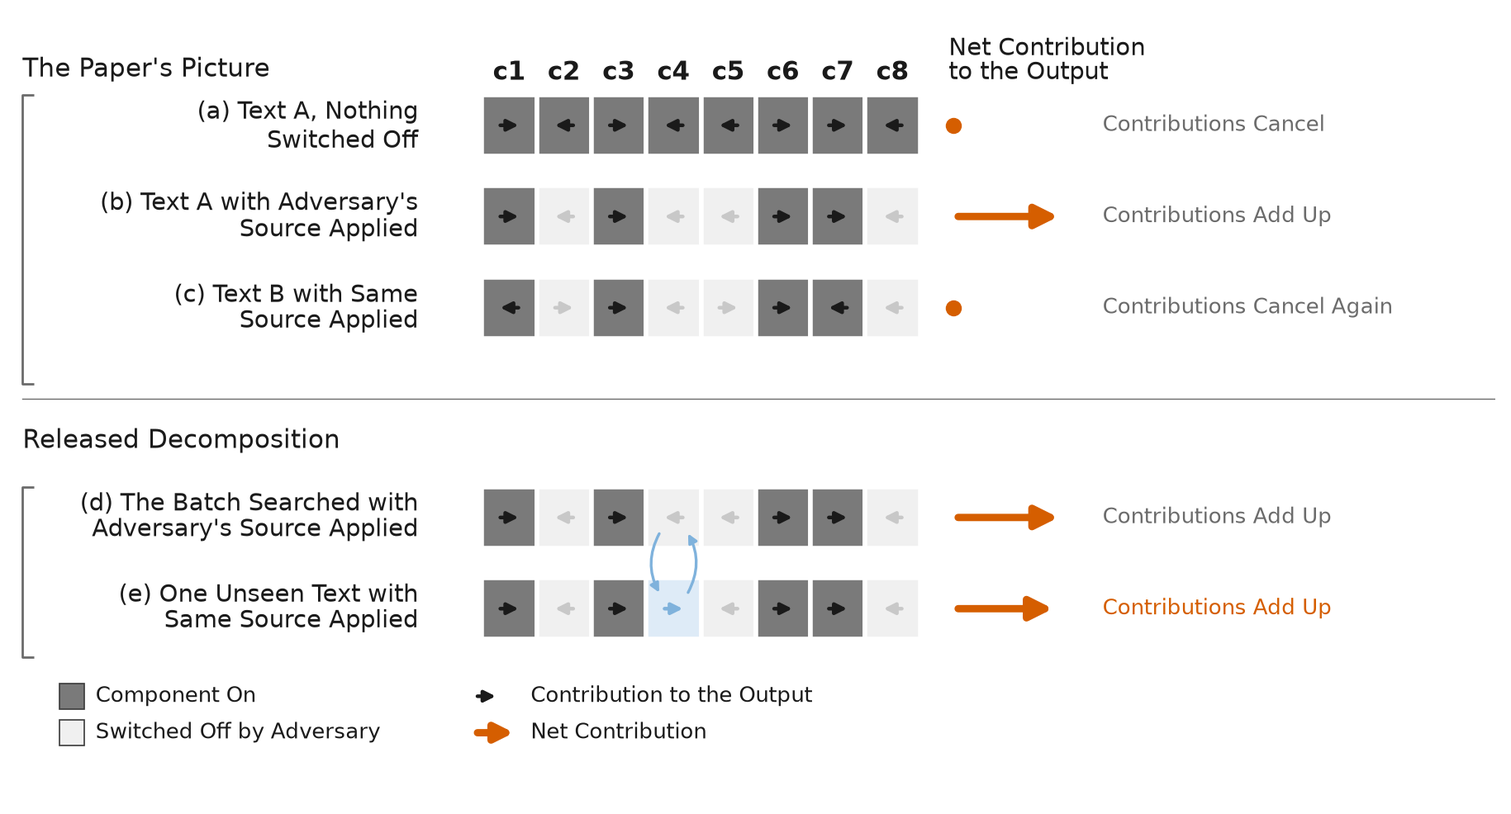
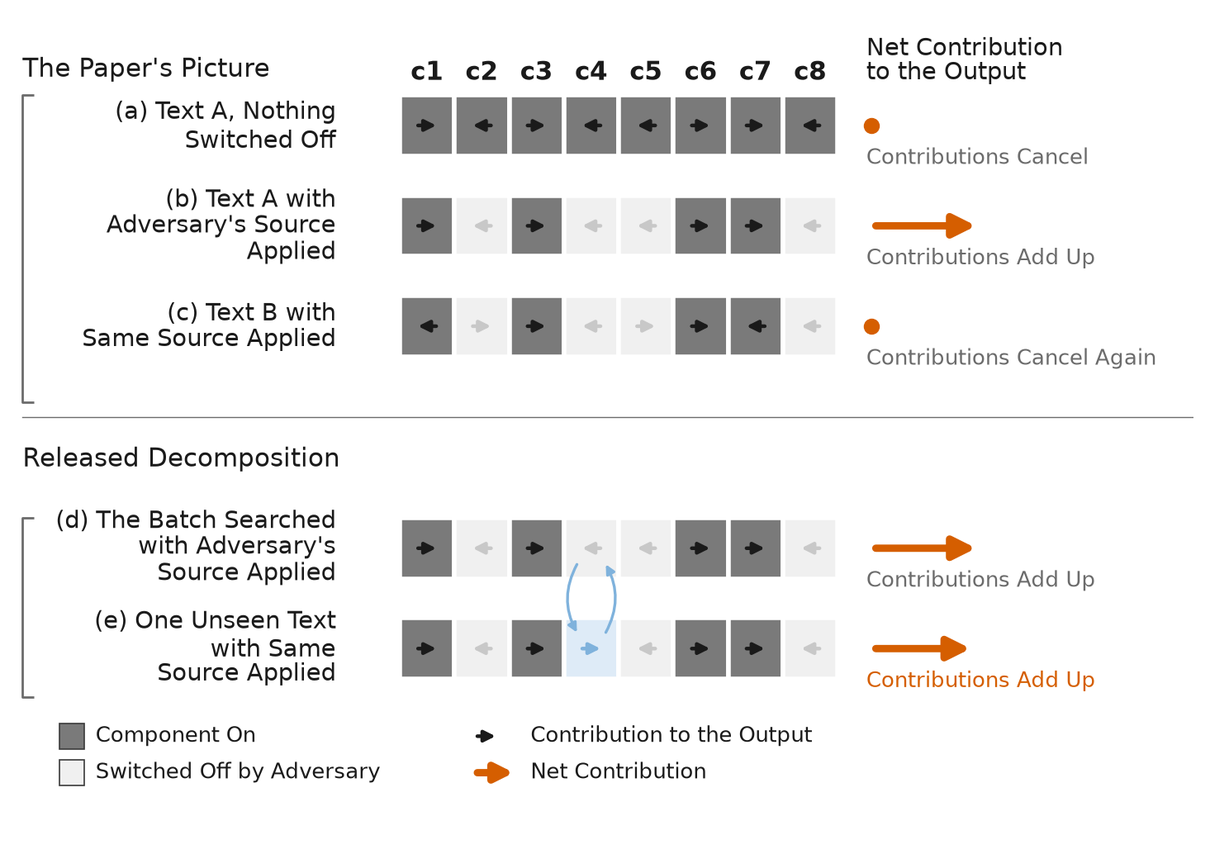
The post's address, the report brought up to the posted text, and figure three narrowed; vpd-audit-2 at 821c981

diff --git a/vpd_audit_2/post_interference.py b/vpd_audit_2/post_interference.py
@@ -1,4 +1,4 @@
-"""Plans 4 and 7 of the research log: the post's Figure 3, the paper's interference picture as a toy, and two facts
+"""Plans 4, 7, and 9 of the research log: the post's Figure 3, the paper's interference picture as a toy, and two facts
 measured on the released decomposition, drawn in the toy's terms.
 
     uv run python -m vpd_audit_2.post_interference
@@ -29,6 +29,10 @@ One PNG goes to `results/post/`, `figure3_interference.png`, with a copy at 50 p
 The style is Figure 2's: its helpers and constants are imported from `post_schematic.py`, and `VERMILLION` from
 `post_figure.py` (neither is changed). The figure is laid out at Figure 2's scale, so a data unit is the same size in the
 saved image.
+
+The layout is narrow, since LessWrong scales every image to its column width: each row's reading ("Contributions Add
+Up") sits under its net arrow, in the net column, rather than in a column of its own at the right; the longer row titles
+wrap onto three lines; and the rows sit 1.65 units apart, where they sat 1.5 apart while the readings had their column.
 """
 
 from __future__ import annotations
@@ -93,12 +97,12 @@ def kept_share(record_path: Path = LEAD_RECORD) -> dict:
 # ----------------------------------------------------------------------------- the words
 
 SECTIONS = ("The Paper's Picture", "Released Decomposition")
-TITLES = {"a": "(a) Text A, Nothing\nSwitched Off", "b": "(b) Text A with Adversary's\nSource Applied",
-          "c": "(c) Text B with Same\nSource Applied",
-          "d": "(d) The Batch Searched with\nAdversary's Source Applied", "e": "(e) One Unseen Text with\nSame Source Applied"}
+TITLES = {"a": "(a) Text A, Nothing\nSwitched Off", "b": "(b) Text A with\nAdversary's Source\nApplied",
+          "c": "(c) Text B with\nSame Source Applied",
+          "d": "(d) The Batch Searched\nwith Adversary's\nSource Applied", "e": "(e) One Unseen Text\nwith Same\nSource Applied"}
 READINGS = {"a": "Contributions Cancel", "b": "Contributions Add Up", "c": "Contributions Cancel Again"}
 NET_HEADER = "Net Contribution\nto the Output"
-# Beside rows (d) and (e), as beside rows (a) to (c); the unseen text's in vermilion.
+# Under the net arrows of rows (d) and (e), as of rows (a) to (c); the unseen text's in vermilion.
 MEASURED_READINGS = {"d": "Contributions Add Up", "e": "Contributions Add Up"}
 MEASURED_READING_COLOURS = {"d": MUTED, "e": VERMILLION}
 LEGEND_A = [("on", "Component On"), ("off", "Switched Off by Adversary")]
@@ -109,21 +113,23 @@ LEGEND_B = [("push", "Contribution to the Output"), ("net", "Net Contribution")]
 CW3 = 0.9  # cell width (Figure 2's is 1.7: eight cells and the net column must fit the post's column)
 RH = 1.0  # cell height, as Figure 2's
 PUSH = 0.45  # a component's arrow, in data units; the net arrow is the net push times this
+PITCH = 1.65  # the rows' pitch: room for the three-line titles and for the readings under the net arrows
 NET_X0 = 8 * CW3 + 0.35  # the net column
-NET_W = 2.3
+NET_W = 5.3  # the net column also holds the readings, so it is wide; nothing sits to its right
 NET_ORIGIN = NET_X0 + 0.2  # every net arrow starts here; a zero net push is a dot here
 NET_HEADER_INSET = 0.08  # the net column's header starts this far left of NET_ORIGIN, over the dots and arrow tails
-READ_X = NET_X0 + NET_W + 0.35  # the readings, left-aligned
-READ_W = 6.45  # the readings' column, which sets the figure's right edge
+READ_X = NET_ORIGIN - NET_HEADER_INSET  # the readings, left-aligned with the net column's header
+READING_DROP = 0.36  # each reading's top sits this far below its row's middle, under the net arrow
 TITLE_X = -1.05  # the row titles, right-aligned
-BRACKET_X = -7.55  # the section brackets at the far left
-ROW_TOP = {"a": 0.0, "b": -1.5, "c": -3.0, "d": -6.45, "e": -7.95}  # each row's top edge
-RULE_Y = -5.0  # the hairline between the paper's picture and the released decomposition, a full row below row (c)
+BRACKET_X = -6.2  # the section brackets at the far left (the three-line titles are narrower than two-line ones)
+# each row's top edge: one pitch apart, with two more units between (c) and (d) for the hairline and the section label
+ROW_TOP = {"a": 0.0, "b": -PITCH, "c": -2 * PITCH, "d": -2 * PITCH - 2.0 - PITCH, "e": -2 * PITCH - 2.0 - 2 * PITCH}
+RULE_Y = ROW_TOP["c"] - 1.0 - 1.0  # the hairline between the two sections, a full row below row (c)
 SECTION_LABEL_Y = {SECTIONS[0]: 0.2, SECTIONS[1]: RULE_Y - 0.48}  # "Released Decomposition" below the rule, not touching it
 D_BOTTOM = ROW_TOP["e"] - 1.3  # the bottom of the lower section's bracket
 FLIP_INSET = 0.25  # the curved arrows run this far inside c4's column, one at each side
 FLIP_GAP = 0.2  # and start and end this far from the two rows' middles
-XLIM = (BRACKET_X - 0.1, READ_X + READ_W)
+XLIM = (BRACKET_X - 0.1, NET_X0 + NET_W + 0.2)
 LEGEND_Y = D_BOTTOM - 0.85  # the first legend row's swatch bottom
 LEGEND_X = (BRACKET_X + 0.6, BRACKET_X + 7.4)
 BOTTOM_TOP = LEGEND_Y - 0.3  # just under the legend's first row, the top of the margin at the figure's foot (no footer)
@@ -185,7 +191,7 @@ def _draw_rows(ax):
         for j in range(8):
             _cell(ax, j * CW3, y, bool(sw[j]), push=PUSHES[inp][j])
         _net(ax, y, row_net_push(row))
-        ax.text(READ_X, y + RH / 2, READINGS[row], ha="left", va="center", fontsize=9.5, color=MUTED)
+        ax.text(READ_X, y + RH / 2 - READING_DROP, READINGS[row], ha="left", va="top", fontsize=9.5, color=MUTED)
         ax.text(TITLE_X, y + RH / 2, TITLES[row], ha="right", va="center", fontsize=10.5, color=INK, linespacing=1.1)
     # the schematic rows: (d) the searched batch, row (b)'s arrows; (e) one unseen text, the same with c4 flipped and
     # tinted; each with a net arrow (row (b)'s net push, times the kept share on the unseen text) and a reading
@@ -198,7 +204,8 @@ def _draw_rows(ax):
             else:
                 _cell(ax, j * CW3, y, bool(SWITCHES[j]), push=sign)
         _net(ax, y, row_net_push("b") * share[row])
-        ax.text(READ_X, y + RH / 2, MEASURED_READINGS[row], ha="left", va="center", fontsize=9.5, color=MEASURED_READING_COLOURS[row])
+        ax.text(READ_X, y + RH / 2 - READING_DROP, MEASURED_READINGS[row], ha="left", va="top", fontsize=9.5,
+                color=MEASURED_READING_COLOURS[row])
         ax.text(TITLE_X, y + RH / 2 + 0.02, TITLES[row], ha="right", va="center", fontsize=10.5, color=INK, linespacing=1.1)
     # a pair of curved arrows between row (d)'s c4 and row (e)'s, inside the column: down at the left, up at the right
     xl, xr = FLIP * CW3 + FLIP_INSET, (FLIP + 1) * CW3 - FLIP_INSET
@@ -208,7 +215,7 @@ def _draw_rows(ax):
     # the section brackets and the hairline between them
     _bracket(ax, BRACKET_X, ROW_TOP["a"], RULE_Y + 0.25, MUTED, 1.0)
     _bracket(ax, BRACKET_X, ROW_TOP["d"], D_BOTTOM, MUTED, 1.0)
-    ax.plot([BRACKET_X, READ_X + READ_W], [RULE_Y, RULE_Y], color=MUTED, linewidth=0.5)
+    ax.plot([BRACKET_X, XLIM[1]], [RULE_Y, RULE_Y], color=MUTED, linewidth=0.5)
     ax.text(BRACKET_X, SECTION_LABEL_Y[SECTIONS[0]], SECTIONS[0], ha="left", va="bottom", fontsize=HEAD, color=INK)
     ax.text(BRACKET_X, SECTION_LABEL_Y[SECTIONS[1]], SECTIONS[1], ha="left", va="top", fontsize=HEAD, color=INK)
 

diff --git a/tests/test_post_interference.py b/tests/test_post_interference.py
@@ -98,7 +98,9 @@ def test_the_net_arrows_take_the_kept_share_and_the_readings_and_section_label_a
         for p in patches:  # the net arrow starts at NET_ORIGIN
             if isinstance(p, FancyArrowPatch) and p._posA_posB[0] == (P.NET_ORIGIN, y0 + P.RH / 2):
                 nets[row] = (p._posA_posB[1][0] - P.NET_ORIGIN) / P.PUSH
-        readings[row] = [(t.get_text(), t.get_color()) for t in texts if t.get_position() == (P.READ_X, y0 + P.RH / 2)]
+        # each reading hangs under its net arrow, left-aligned with the net column's header
+        under = (P.READ_X, y0 + P.RH / 2 - P.READING_DROP)
+        readings[row] = [(t.get_text(), t.get_color()) for t in texts if t.get_position() == under]
     words = [t.get_text() for t in texts]
     assert nets == pytest.approx({"b": 4.0, "d": 4.0, "e": 4 * 0.95}, abs=1e-9)  # (a) and (c) are dots: net push 0
     assert readings["d"] == [("Contributions Add Up", P.MUTED)] and readings["e"] == [("Contributions Add Up", P.VERMILLION)]

diff --git a/REPORT.md b/REPORT.md
@@ -255,7 +255,7 @@ A dose-response, added after the readings at the author's request (`results/s6_f
 | Harm, nats (`dose_rounded.txt` line 29) | 1.52 | 14.03 | 33.52 |
 | Fraction of the whole pattern's added harm (`dose_rounded.txt` line 21) | 0.04 | 0.42 | 1.02 |
 
-The harm arrives almost entirely with the last quarter of the pattern.
+The harm arrives almost entirely with the last quarter of the pattern. The share of the added harm depends on the length of the search: with 0.75 of the off set switched off it is 0.660 at 20 steps, 0.298 at 40, 0.046 at 80, 0.041 at 160, and 0.040 at 320 (`dose_rounded.txt`, lines 17 to 21), so the concentration in the last quarter is a property of the longer searches.
 
 ### 4.4 Many Patterns, Not One
 
@@ -335,7 +335,7 @@ Two more facts bound the claim:
 The probe therefore tests the premise of the toy picture, not the mechanism of the harm.
 
 **Figure 3's rows (d) and (e)** are schematic. They do not show individual measured components, and stand for two measured facts:
-- **Signs.** In row (e) one of the eight switched-off cells flips sign, against the size-weighted 0.743 that keep their sign.
+- **Signs.** In row (e) one of the four switched-off cells flips sign, against the size-weighted 0.743 that keep their sign.
 - **Net arrows.** Row (e)'s net arrow is 0.95 of row (d)'s: the pooled retention at 320 steps, 0.9468 [0.9353, 0.9583] (`results/s5_lead/analysis/lead_tables.txt` line 792). Retention is a ratio of added KL divergence, not of logit-shift length.
 
 ### 5.4 Why Training Left These Defects
@@ -346,6 +346,8 @@ To test whether too little signal per step explains the miss, we ran the authors
 - arm 1: one per text slot and position, as released, $64 \times 512$ per component;
 - arm 2: one per text;
 - arm 3: one for the batch, as the evaluation adversary uses.
+
+Each arm masked all 24 weight matrices at every step, as the released configuration specifies: its random-subset routing of the matrices is set for the stochastic reconstruction loss only, and none is set for the persistent adversary's loss (`provenance/runs/s-55ea3f9b/final_config.yaml`), although the paper's training-recipe appendix says both reconstruction losses use it [1].
 
 Our step matched the authors' training code bit for bit, with 0 mismatches in 1,272,135,829 gradient entries (`results/s7_three_arm/reading.txt` line 6). At the start, 0.456 of arm 1's gradient entries sat below Adam's epsilon, so those values barely moved (`results/s7_three_arm/gate.json` line 40).
 
@@ -543,7 +545,7 @@ Every row carries one of the standings Section 1 defines. For descriptive rows, 
 | batches of 128 texts of 512 tokens; sixteen searched and sixteen unseen; five searches per batch; 80 searches; sources at 20, 40, 80, 160, 320 steps; eight shuffled copies | as stated | design | `freeze/part1.md`, Sections 3 and 6 |
 | a random source causes 0.22 nats | 0.22 | descriptive | `results/s5_lead/analysis/lead_tables.txt`, line 30 |
 | the paper's 20-step search on our unseen batches: 0.75 nats (the dashed line) | 0.75 held-out side; 0.71 attack side | descriptive, named in advance as the yardstick of the registered "large" verdicts (`freeze/part1.md`, Section 4) | `lead_tables.txt`, lines 30 to 31, 57 |
-| seen and unseen damage within 30 percent at every step count (figure one's caption) | held-out over attack, raw: 0.60/0.71, 1.77/2.12, 16.78/18.17, 28.77/30.60, 32.79/34.62, that is 0.85, 0.83, 0.92, 0.94, 0.95 | descriptive | `lead_tables.txt`, lines 30 to 31, 57 to 58, 87 to 88, 117 to 118, 151 to 152 |
+| seen and unseen damage within 20% at every step count (figure one's caption) | held-out over attack, raw: 0.60/0.71, 1.77/2.12, 16.78/18.17, 28.77/30.60, 32.79/34.62, that is 0.85, 0.83, 0.92, 0.94, 0.95 | descriptive | `lead_tables.txt`, lines 30 to 31, 57 to 58, 87 to 88, 117 to 118, 151 to 152 |
 | the dots hug the diagonal: most of the divergence carries over | carry-over ratio 0.72 [0.56, 0.87], 0.77 [0.45, 1.09], 1.02 [0.73, 1.32], 0.90 [0.80, 0.99], 0.94 [0.88, 1.01], all "carries over" | registered verdict, five of 23 | `lead_tables.txt`, lines 33, 60, 90, 120, 154 |
 | from twenty steps on, the defects systematically transfer (TL;DR) | at 20 steps the registered verdicts are "carries over", 0.72 [0.56, 0.87], and "depends on the choice", 0.65 [0.48, 0.82]; "large" is not asked at 20 steps, so the fixed sentence naming a systematic defect exists from 40 steps on | registered verdict, two of 23 at 20 steps; the sentence from 40 steps | `lead_tables.txt`, lines 32 to 34; `freeze/part1.md`, Section 4 |
 | share kept 78% at 20 steps (95 percent interval 0.68 to 0.88), 82% at 40, 92% at 80, about 95% at 160 and 320 | pooled retention 0.78 [0.68, 0.88], 0.82 [0.74, 0.89], 0.92 [0.90, 0.94], 0.94 [0.92, 0.96], 0.95 [0.94, 0.96] | descriptive, named in advance (`freeze/part1.md`, Section 8); the interval changes no verdict | `lead_tables.txt`, lines 43, 73, 103, 133, 167 |
@@ -555,7 +557,9 @@ Every row carries one of the standings Section 1 defines. For descriptive rows, 
 | by the paper's own definition, systematic defects | the fixed sentence for "large" with "depends on the choice" | registered verdict | `freeze/part1.md`, Section 4; `lead_tables.txt`, lines 67 to 68 |
 | the shuffled copies cause 0.30 to 0.32 nats at every step count | 0.32, 0.31, 0.31, 0.30, 0.30 | descriptive, beside the registered shuffled ratio: 0.65 [0.48, 0.82], 0.76 [0.42, 1.09], 1.02 [0.73, 1.32], 0.90 [0.80, 0.99], 0.94 [0.88, 1.01], all "depends on the choice", five of 23 | `lead_tables.txt`, lines 30, 57, 87, 117, 151; the ratios at lines 34, 61, 91, 121, 155 |
 | which components, not how many | composition share 0.74, 0.94, 0.99, 1.00, 1.00 | descriptive | `lead_tables.txt`, lines 38, 65, 95, 125, 159 |
-| a search finds these patterns easily from any starting point | retention at 80 steps, start by start: 0.9215, 0.9222, 0.9213, 0.8925, 0.9377; searches past 5 nats by 160 steps, 0.94 and 0.96 | descriptive | `lead_tables.txt`, lines 733, 138 |
+| a search finds these patterns from any starting point (a sentence the post no longer carries; kept for the record) | retention at 80 steps, start by start: 0.9215, 0.9222, 0.9213, 0.8925, 0.9377; searches past 5 nats by 160 steps, 0.94 and 0.96 | descriptive | `lead_tables.txt`, lines 733, 138 |
+| sources found from different random starts on different batches agree on which components to turn down only slightly more often than chance (an agreement beyond chance of 0.05) | at 320 steps, 29,648 pairs: agreement 0.555 against an independence chance level of 0.531, $\kappa = 0.052$; at 20 and 40 steps $\kappa$ is 0.083 and 0.067 | descriptive, named in advance (the conventions file's Section 7, `results/s6_followups/CONVENTIONS.md`, line 51; Section 4.4) | `results/s6_followups/agreement.txt`, lines 17, 140, and 164 |
+| turning down a random three quarters of the components in a pattern causes only 4% of its damage, and nearly all of the damage arrives with the last quarter | kept share with 0.75 of the off set switched off: 0.040 at 320 steps; 0.660, 0.298, 0.046, and 0.041 at 20, 40, 80, and 160; with 0.9 switched off, 0.424 at 320 | descriptive, added after the readings at the author's request (Section 4.3); it holds from 80 steps on and not at 20 or 40 | `results/s6_followups/dose_rounded.txt`, lines 17 to 21 |
 | most of the values the adversary finds end up at exactly 0 or 1 (figure two's caption) | shares at exactly 0 plus exactly 1: 0.87 and 0.87 at 80 steps (never-needed and ever-needed components), 0.89 and 0.84 at 320 | descriptive | `results/s6_followups/histogram.txt`, lines 23, 25, 37, 39 |
 | the harm-level table (not quoted in the post, but behind "both short and long searches") | nine verdicts, all yes | registered verdict, confirmatory, nine of 23 | `lead_tables.txt`, lines 193 to 195, 223 to 225, 253 to 255 |
 | 74% of the switched-off components keep their sign, weighted by size | 0.7430 | reading fixed before the run: the chance level fixed in advance was the matched left-on components' agreement, 0.7434, giving agreement beyond chance $-0.0015$ $[-0.0222, 0.0193]$, read "do not agree"; the within-batch gate held, so the reading licensed the input-specific sentence, and that licence was declined (Section 5.3). The post gives 74 against the reshuffled 55 and the left-on 74 in footnote 1; the registered reading is in the file and in Section 5.3 | `results/s7_probe1/reading.txt`, lines 9 to 12, 14, 21 |
@@ -565,17 +569,22 @@ Every row carries one of the standings Section 1 defines. For descriptive rows, 
 | 80 sources at 320 steps; a text the adversary never saw | 1,280 held-out cells, each a source on a batch of 128 texts, the agreement pooled over all 128 | design | `reading.txt`, line 8; `vpd_audit_2/probe1_read.py`, line 22 |
 | the net arrow in (e) is 95 percent as large as in (d) (figure three's caption) | pooled retention at 320 steps, 0.95 [0.94, 0.96], over all 80 sources (0.9468 [0.9353, 0.9583] unrounded, `lead_tables.txt`, line 792) | descriptive, named in advance | `lead_tables.txt`, lines 167 and 792 |
 | the net contribution depends on interactions, not only the first-order contributions | first-order sum over the off set is 0.2651 of the pattern's shift on held-out text (0.2353 on the attack batch) | descriptive, named in advance (a planned description of probe 1) | `reading.txt`, line 22 |
+| "We observe the same for the sources found at 80 steps" (the sign agreement) | 0.7428 against the matched left-on components' 0.7425; $\kappa = 0.0009$ $[-0.0273, 0.0291]$ | descriptive; the probe's reading file marks the 80-step row "description only; nothing is licensed by this row" | `results/s7_probe1/reading.txt`, lines 29 to 32 |
+| the one-at-a-time contributions add up to only about a quarter of the pattern's total output shift at 320 steps, and about two fifths at 80 | 0.2651; 0.4140 | descriptive, named in advance (a planned description of probe 1) | `results/s7_probe1/reading.txt`, lines 22 and 39 |
 | pooling 64 tokens' worth of other texts' explanations: 0.80 nats over 1,024 texts; 0.34 from the text's own explanation; about 4,500 components fully on | 0.7993; 0.3417; 4,544 | from the first post | `third_party/vpd-audit/REPORT.md`, Section 8.1 |
 | the paper's 20-step adversary on those same texts: 0.70 nats, "about as much" as 0.80 | 0.696 [0.637, 0.756] with the delta components searched; 0.690 [0.631, 0.749] held at 0; $0.80/A = 1.149$, within the factor of 1.25 fixed in advance | registered verdict: the clause was frozen in `freeze/part1.md`, Section 7, before the lead data | `results/s6_followups/rerun.txt`, lines 5, 9, 13, 21 |
 | the adversary leaves about 60% of the 38,912 components fully on | the kept set at 320 steps, mean over the 80 sources, is 22,499.8 of 38,912, that is 0.578. Entries at or above one half: 0.590 of the never-needed and 0.544 of the ever-needed components; exactly 1: 0.53 and 0.46. The post's "fully on" is the rounded pattern | descriptive | `results/s7_probe1/reading.txt`, line 25; `results/s6_followups/histogram.txt`, lines 37 and 39; the rounding convention, `CONVENTIONS.md`, Section 3 |
 | the evaluation adversary finds a carrying-over pattern within 20 steps; one doing 5 nats in almost every search within 160 | pooled retention 0.78 at 20 steps; searches past 5 nats by 160 steps, 0.94 attack, 0.96 held-out | descriptive, named in advance (the shares past levels, `freeze/part1.md`, Section 8) | `lead_tables.txt`, lines 43, 138 |
 | per position: no damaging pattern in 1,000 batches; fresh-batch divergence crept from 0.23 to 0.26; 0.47 on the batch just optimized on | never, in 1,230 and 1,000 batches; means of the first and last 200 batches 0.2318 to 0.2634 and 0.2609 (fresh), 0.4225 to 0.4713 and 0.4662 (own) | reading fixed before the run ("Reading 2"); the trends are descriptive | `results/s7_three_arm/reading.txt`, lines 9 to 10, 15 to 16, 23 to 26 |
 | per document: 374 and 325 batches; across the batch: 123 and 88 | as stated, on the governing series (349 and 316, 123 and 87 on training's own loss series) | reading fixed before the run | `reading.txt`, lines 11, 17 to 20 |
-| "This shows that pooling the gradient over more positions per step is what helps find systematically damaging source patterns" | reading 2's licensed wording is "within N batches, arm 1 did not reach the pattern that the yardstick reached at batch b", with arm 2 saying "whether sharing alone reaches it"; the design supports the attribution, since the arms differ only in the scope of a source, but the reading does not state it (Section 5.4) | interpretation; the reading licenses the breakout comparison, not the cause | `vpd_audit_2/three_arm_read.py`, lines 23 to 25; `results/s7_three_arm/reading.txt`, lines 9 to 11 |
+| sharing per document took about three times as many batches to find a damaging pattern as sharing across the whole batch | 374 and 325 against 123 and 88, ratios 3.0 and 3.7 | descriptive, a comparison of two readings fixed before the run | `results/s7_three_arm/reading.txt`, lines 11 and 17 to 20 |
+| "This suggests that pooling the gradient over more positions per step is what helps find systematically damaging source patterns" | reading 2's licensed wording is "within N batches, arm 1 did not reach the pattern that the yardstick reached at batch b", with arm 2 saying "whether sharing alone reaches it"; the design supports the attribution, since the arms differ only in the scope of a source, but the reading does not state it (Section 5.4) | interpretation; the reading licenses the breakout comparison, not the cause, so the post's "suggests" is what it supports | `vpd_audit_2/three_arm_read.py`, lines 23 to 25; `results/s7_three_arm/reading.txt`, lines 9 to 11 |
 | "too little signal per step could, on its own, explain why training never encountered these problematic patterns" | the same reading; it names neither the signal per step nor an explanation, and "the post never says 'cannot reach'", training having run 400,000 batches against the 1,000 here | interpretation, hedged; the reading licenses the comparison over 1,000 batches, not an explanation of training (Section 5.4) | `three_arm_read.py`, lines 23 to 27; `reading.txt`, line 9 |
 | the rule: 5 nats averaged over two consecutive fresh batches, before any steps on them | as stated | reading fixed before the run (the rule itself) | `reading.txt`, lines 3 to 4 |
 | 1,000 batches of 64 texts, two starts; the released checkpoint holds no adversarial values (footnote 2) | 1,000 (1,230 for one start); 159 keys, no persistent sources | design; the checkpoint check is descriptive | `reading.txt`, lines 1 to 2, 41 |
-| the authors' newer code shares each value across a document, with a different optimizer | "Each document samples one particle and uses its per-site vectors at every position"; pool size 2,064, source learning rate 0.02 | from the paper's authors' repository (`docs/skill.md` at commit 5ffc73d), not a measurement here | the repository file the post links |
+| the authors' newer code shares each value across a document, keeps a pool of persistent adversarial values, and doubles the source learning rate | "Each document samples one particle and uses its per-site vectors at every position"; pool size 2,064, source learning rate 0.02 | from the paper's authors' repository (`docs/skill.md` at commit 5ffc73d), not a measurement here | the repository file the post links |
+| Lee Sharkey's diagnosis: the procedure for finding strong adversarial ablations "isn't getting good enough coverage of ablation-space" | verbatim | from the comment thread [7], not a measurement here | the comment the post links [7] |
+| the authors' newer decomposition is "significantly improved, though still imperfect" and "more robust to the evaluation adversary", and is not publicly released | by the authors' write-up [6], every harm of the first audit is smaller: hard delete 0.16 nats against 1.28, union +0.10 against +0.46, self-aggregation +0.30 against +1.03, all still above the 0.05-nat bar; the batch-shared search raises its KL by 1.2 nats after 80 steps and 1.3 after 1,280, over a CI-masked 0.21, where the paper's table has the released decomposition at 3.84 after 80 steps and 40.2 after 320 | from the authors' write-up, not a measurement here; the newer run is not in the authors' public WandB project, where the released run's configuration downloads (checked 19 October 2026) | the write-up [6], Table 1, the section "How the new decomposition fares on each claim" (the CI-masked 0.21), and its last section ("What remains open") |
 | our searches do 2.1 nats at 40 steps | 2.12 on the attack batches (2.24 on the held-out batches) | descriptive | `lead_tables.txt`, lines 58, 57 |
 
 ## 9. Limitations
@@ -592,10 +601,14 @@ Every row carries one of the standings Section 1 defines. For descriptive rows, 
 
 [1] L. Bushnaq, D. Braun, O. Clive-Griffin, B. Bussmann, N. Hu, M. Ivanitskiy, L. Linsefors, and L. Sharkey. Interpreting Language Model Parameters (adVersarial Parameter Decomposition). Goodfire, May 2026. https://www.goodfire.ai/research/interpreting-lm-parameters
 
-[2] T. Angsten. VPD's Evaluation Adversary Finds Systematic Defects in the Released Decomposition. LessWrong, October 2026. (URL once published.)
+[2] T. Angsten. VPD's Evaluation Adversary Finds Systematic Defects in the Released Decomposition. LessWrong, October 2026. https://www.lesswrong.com/posts/tGdKJPmyaiHnqkLem/vpd-s-evaluation-adversary-finds-systematic-defects-in-the
 
 [3] T. Angsten. Do VPD's Explanations Aggregate? An Audit of the Released Decomposition. LessWrong, 30 September 2026. https://www.lesswrong.com/posts/KeBccWBGXnNXzZFBp/do-vpd-s-explanations-aggregate-an-audit-of-the-released-1. Code and technical report: https://github.com/angsten/vpd-audit, included here as the submodule `third_party/vpd-audit`.
 
 [4] Goodfire. param-decomp, the authors' code. https://github.com/goodfire-ai/param-decomp. Pinned here at commit `74146b5` inside `third_party/vpd-audit`; the newer recipe's description is `docs/skill.md` at commit `5ffc73d`.
 
 [5] A. B. Owen. The Pigeonhole Bootstrap. The Annals of Applied Statistics 1(2), 386–411, 2007. DOI 10.1214/07-AOAS122.
+
+[6] Angsten's audit of VPD, claim by claim, on the team's new decomposition. Written for L. Sharkey and the Goodfire parameter-decomposition team, 17 October 2026. https://drive.google.com/file/d/1px6owOIAbXEPyCNT4dmnuFNjhUYC6Ta1/view
+
+[7] L. Sharkey. Comment on [3]. LessWrong, 17 October 2026. https://www.lesswrong.com/posts/KeBccWBGXnNXzZFBp/do-vpd-s-explanations-aggregate-an-audit-of-the-released-1?commentId=r3bS4ciM6jN6ZoHiN
